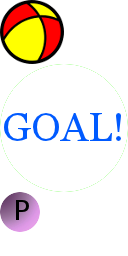
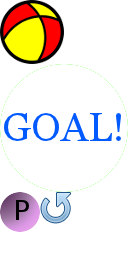
- HUD layer now has a retry button to restart current level (fixes #180)

Changed region(s): [[0.3125, 0.75, 0.5625, 0.875]]

diff --git a/Flingball/HUDLayer.mm b/Flingball/HUDLayer.mm
@@ -9,6 +9,7 @@
 #import "HUDLayer.h"
 #import "Constants.h"
 #import "GameState.h"
+#import "LevelLayer.h"
 
 @implementation HUDLayer
 
@@ -25,6 +26,20 @@
         
         flingStr = [CCLabelTTF labelWithString:@"" fontName:@"Georgia" fontSize:scale(32.0)];
         [self addChild: flingStr];
+
+        // add retry icon, @see https://projects.paynedigital.com/issues/180
+        CCMenuItem* menuItem = [CCMenuItemImage itemFromNormalSprite: [CCSprite spriteWithSpriteFrameName:@"retry.png"] selectedSprite: [CCSprite spriteWithSpriteFrameName:@"retry.png"] block:^(id object) {
+            [[CCDirector sharedDirector] replaceScene:
+             [CCTransitionFlipX transitionWithDuration:0.5f scene:[LevelLayer scene: [[GameState sharedGameState] getValueAsInt:@"currentLevel"]]]];
+        }];
+        
+        menuItem.scale = scale(menuItem.scale);
+        
+        menuItem.position = ccp(screenSize.width - scale(50), scale(50));
+        
+        CCMenu* menu = [CCMenu menuWithItems:menuItem, nil];
+        menu.position = CGPointZero;        
+        [self addChild: menu];
         
         [self schedule: @selector(update) interval:0.1];
     }

diff --git a/Flingball/GameState.mm b/Flingball/GameState.mm
@@ -56,10 +56,8 @@ static GameState* sharedGameState = nil;
     [values setValue: 0 forKey: @"startTime"];
     [values setValue: 0 forKey: @"endTime"];
     [values setValue: 0 forKey: @"levelStarted"];
+    [values setValue: 0 forKey: @"currentLevel"];
     [values setValue: @"" forKey: @"levelTitle"];
-    //ballFlings = ballBounces = startTime = endTime = 0;
-    //levelStarted = NO;
-    //levelTitle = @"";
 }
 
 -(double) getElapsedTime {

diff --git a/Flingball/LevelLayer.mm b/Flingball/LevelLayer.mm
@@ -97,6 +97,7 @@ enum {
     [self updateCamera];
     
     [[GameState sharedGameState] updateKey: @"levelTitle" withValue: [level getTitle]];
+    [[GameState sharedGameState] updateKey: @"currentLevel" withInt: levelIndex];
     
     // event listeners
     [[NSNotificationCenter defaultCenter] addObserver:self selector:@selector(ballAtGoal:) name:@"ballAtGoal" object:nil];
